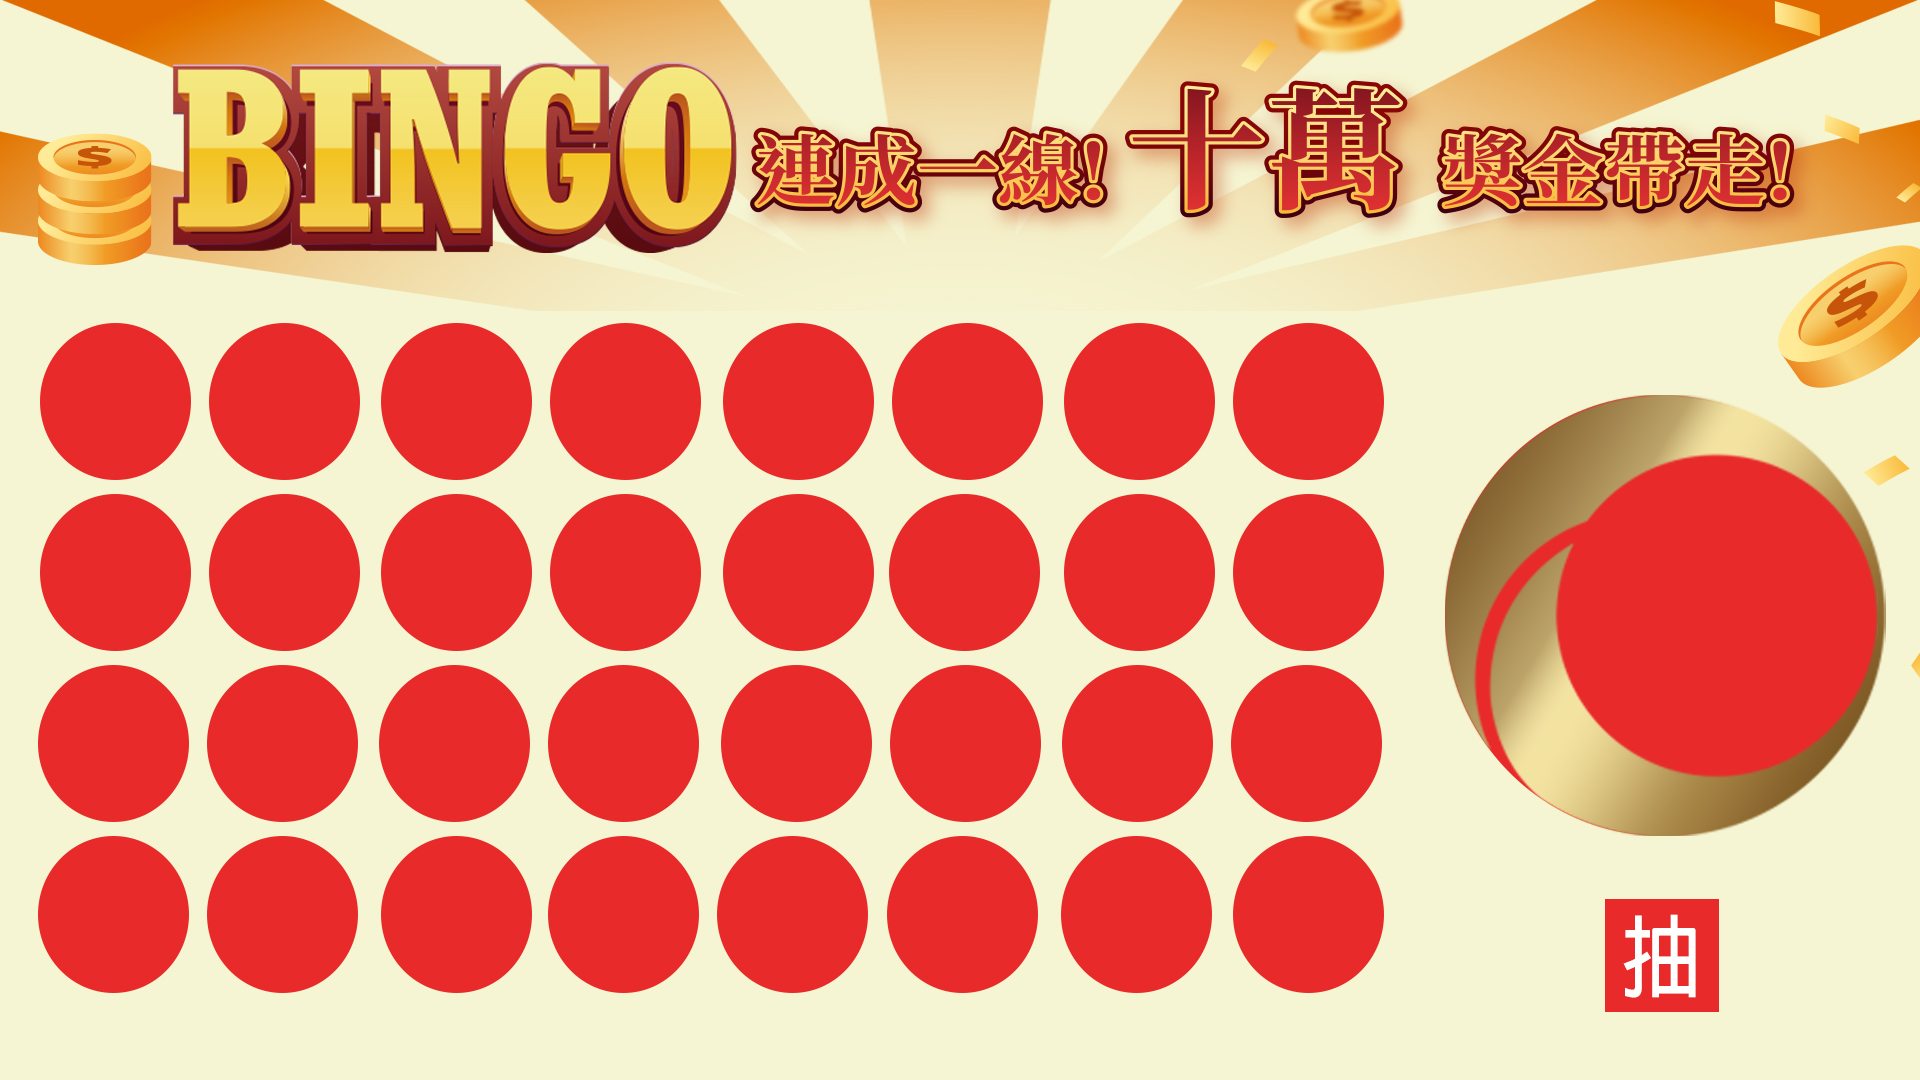
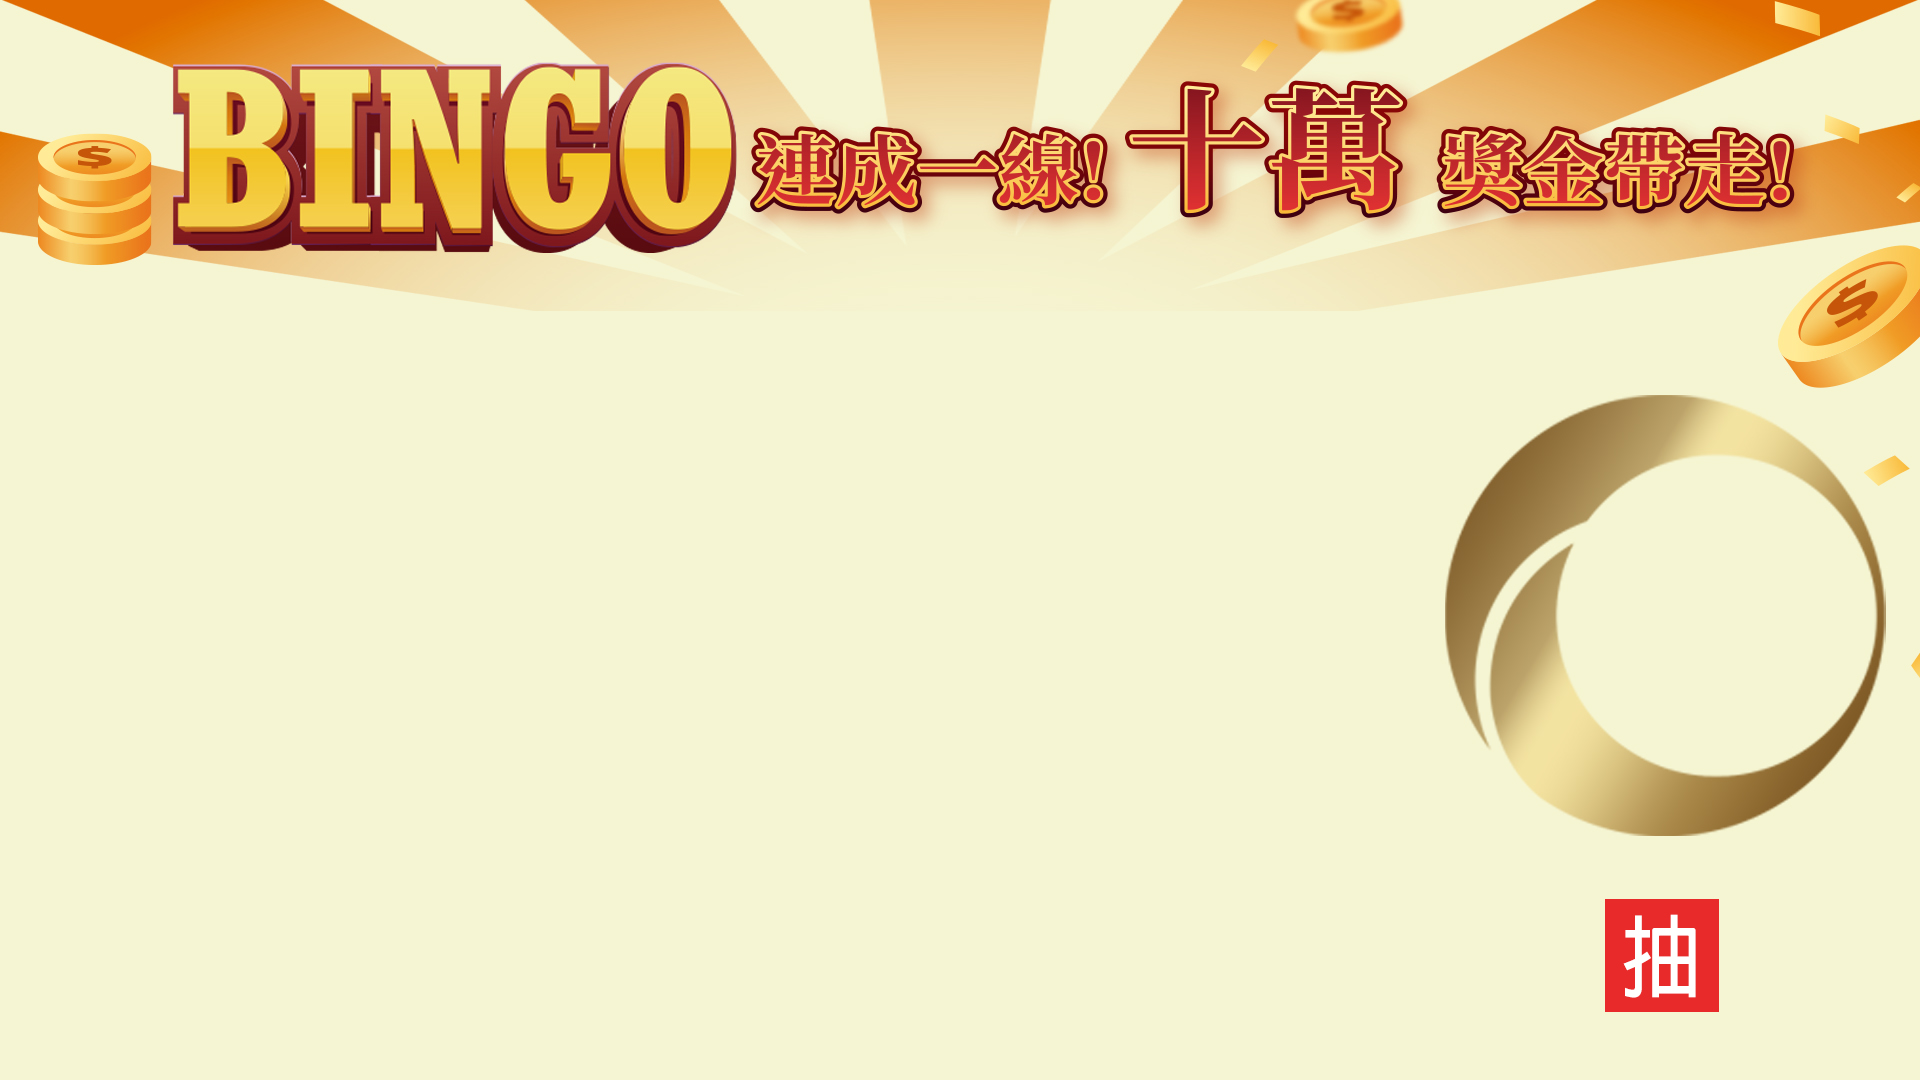
v1.0.0

diff --git a/src/components/BingoBingo.vue b/src/components/BingoBingo.vue
@@ -1,5 +1,7 @@
 <template>
     <div id="bg">
+        <div id="logobackground" class="ball" v-show="disabled"></div>
+
         <div class="row">
 
             <div id="cell_1">
@@ -7,20 +9,22 @@
                 <div id="banner"></div>
                 <div id="board">
                     <transition-group tag="ul" class="number-list" name="list">
-                        <li v-for="(item, index) in list" :key="index" class="ball "
-                            v-bind:class="{ 'item': pool.indexOf(item) < 0, 'roll': pool.indexOf(item) >= 0 }"
+                        <li v-for="(item, index) in list" :key="index"
+                            v-bind:class="{ 'item': pool.indexOf(item) < 0, 'ball': pool.indexOf(item) < 0, 'roll': pool.indexOf(item) >= 0 }"
                         >{{ item }}</li>
                     </transition-group>
                 </div>
             </div>
 
             <div id="cell_2">
-                <div id="button" @click="!disabled && draw()">抽</div>
+                <div id="button" @click="!disabled && draw()"></div>
                 <!-- <button @click="list.length = 0">Remove all</button> -->
             </div>
 
         </div>
-    </div>
+        
+        <div id="logo"></div>
+    </div> 
 </template>
 
 <script>
@@ -108,11 +112,30 @@ export default {
     // min-width: 1210px;
     // min-height: 950px;
     //background: rgba(32, 32, 32, 0.205);
-    background: url("~/public/background.png") no-repeat;
+    background: url("~/public/background_nologo.jpg") no-repeat;
     background-size: 100% 100%;//contain;
     position: relative; 
 
 }
+#logo{
+    width: 20vw;
+    height: 20vw; 
+    background: url("~/public/logo.png") no-repeat;
+    background-size: 100% 100%;//contain;
+    position: fixed;
+    right: 2vw;
+    top: 40vh;
+}
+#logobackground{
+    width: 20vw;
+    height: 20vw; 
+    position: fixed;
+    right: 2vw;
+    top: 40vh;
+
+}
+
+
 .row {
     display: flex;
     height: 100vh;
@@ -125,10 +148,11 @@ export default {
         //padding-left: 3vw;
 }
 #cell_2 {
-    width: 25vw;
+    width: 24vw;
     //height: 100%;
     //background: #454c4474;
-    padding-top: 55vh;
+    padding-top: 83vh;
+    padding-right: 1vw;
 
 }
 #banner{
@@ -143,27 +167,28 @@ export default {
 
 
 #button {
-    width: 18vw;
-    height: 18vw;
+    width: 6vw;
+    height: 6vw;
     cursor: pointer;
     margin: 0 auto;
     //background-color: #c33e3e71;  
 }
 
 .roll {
-    width: 20vw;
-    height: 20vw;
+    width: 17vw;
+    height: 17vw;
     text-align: center;
-    line-height: 20vw;
-    font-size: 17vw;
+    line-height: 17vw;
+    font-size: 13vw;
     position: fixed;
-    right: 2vw;
-    top: 5vh;
+    right: 1vw;
+    top: 42vh;
+    color: rgb(255, 255, 255);
 }
 
 .ball {
-    background-color: rgb(255, 238, 0);
-    color: rgb(0, 0, 0);
+    background-color: #e82a2a;
+    color: rgb(255, 255, 255);
     border-radius: 99em;
 }
 
